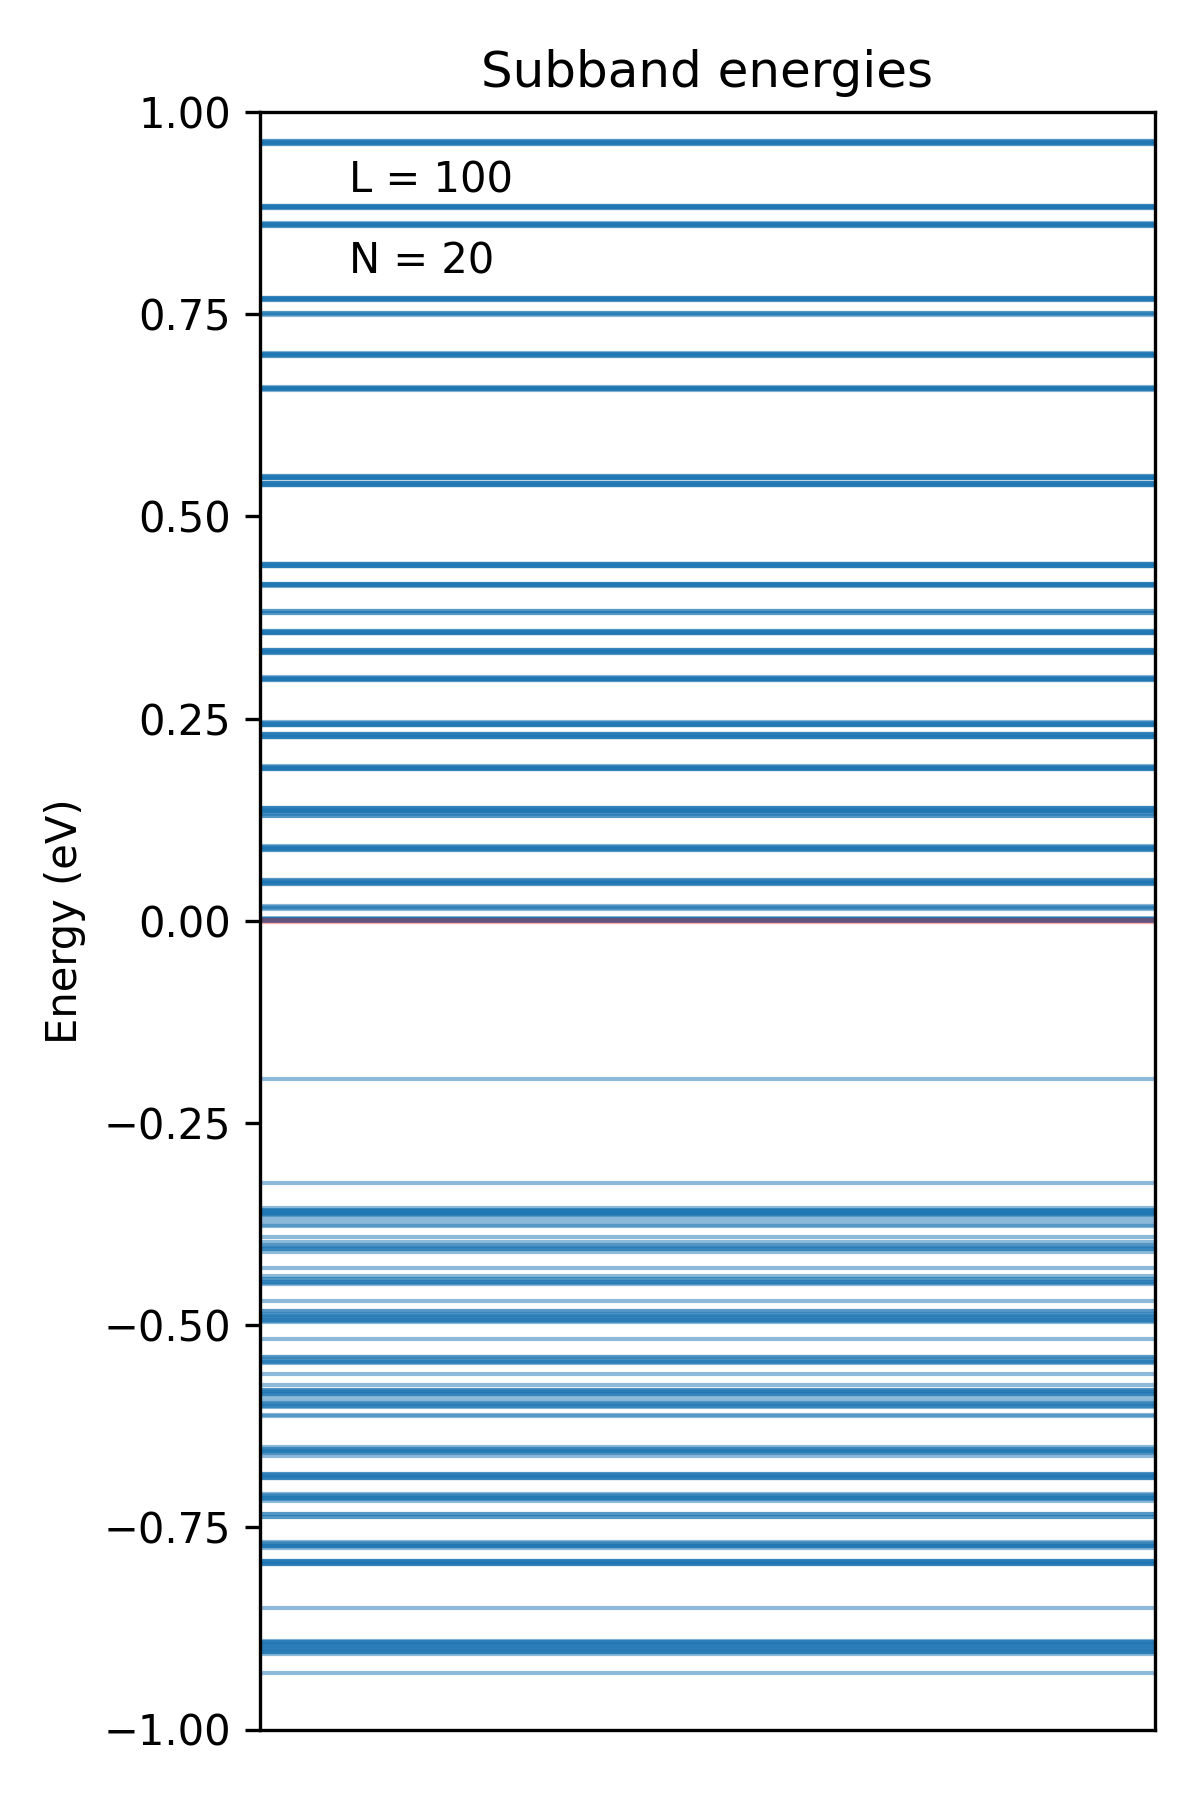
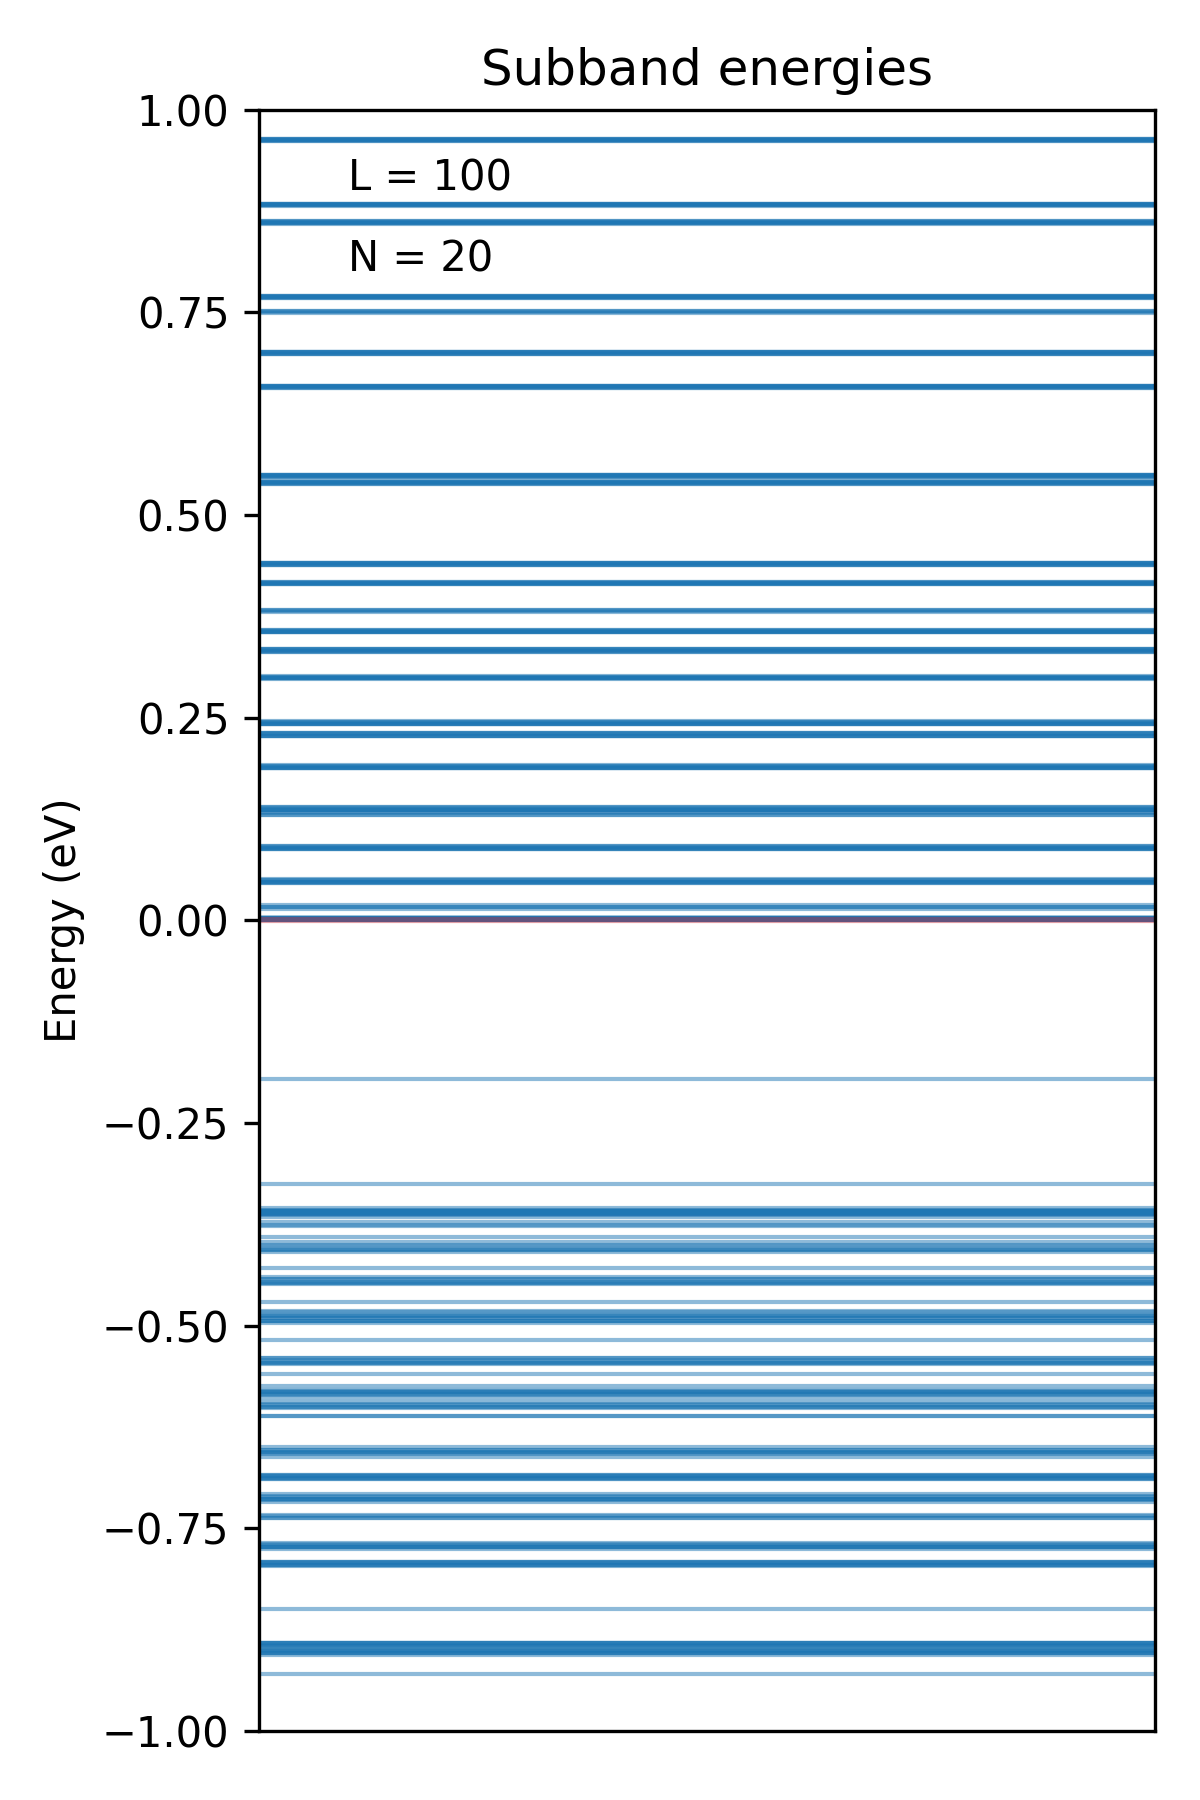
wavefunction calculation added.

diff --git a/subbands_toy_real_2band_VB.py b/subbands_toy_real_2band_VB.py
@@ -57,7 +57,6 @@ ax.set_ylabel('kz')
 ax.set_zlabel('Energy')
 
 ax.set_title('3D Dispersion at kx = 0')
-
 plt.show()
 
 
@@ -123,7 +122,7 @@ def H_k_only(kx, ky, kz, kykz, ky2, kz2):
 # Parameters
 #--------------------
 
-L_values = [100,300, 500, 1000, 5000, 10000]
+L_values = [100]#,300, 500, 1000, 5000, 10000]
 
 for L in L_values:
     Ny = Nz = 20 
@@ -186,7 +185,42 @@ for L in L_values:
     plt.savefig(f"subbands_vb_vb_toy_L{L}_Ny{Ny}.png", dpi = 300)
     plt.show()
 
+#%%
 
+#---------------------------------------------------------------
+# Probability distribution of the subband wave-functions
+#---------------------------------------------------------------
+
+num_states = 4  # first few subbands
+# Sort in descending order
+idx_sort = np.argsort(E)[::-1]
+
+E = E[idx_sort]
+V = V[:, idx_sort]
+
+plt.figure(figsize=(10,8))
+
+for s in range(num_states):
+    
+    psi_mn = np.zeros((Ny, Nz))
+    
+    for m in range(Ny):
+        for n in range(Nz):
+            
+            for alpha in range(nband):
+                coeff = V[idx(alpha, m, n), s]
+                psi_mn[m, n] += np.abs(coeff)**2
+    
+    # psi_mn /= np.max(psi_mn)
+    
+    plt.subplot(2, 2, s+1)
+    plt.imshow(psi_mn.T, origin='lower', aspect='auto')
+    plt.title(f"State {s}, E={E[s]:.3f}, L = {L}, N = {Ny}")
+    plt.colorbar()
+
+plt.tight_layout()
+plt.savefig("wave_functon.png", dpi = 300)
+plt.show()
 
 #%%
 #---------------------------------------------
